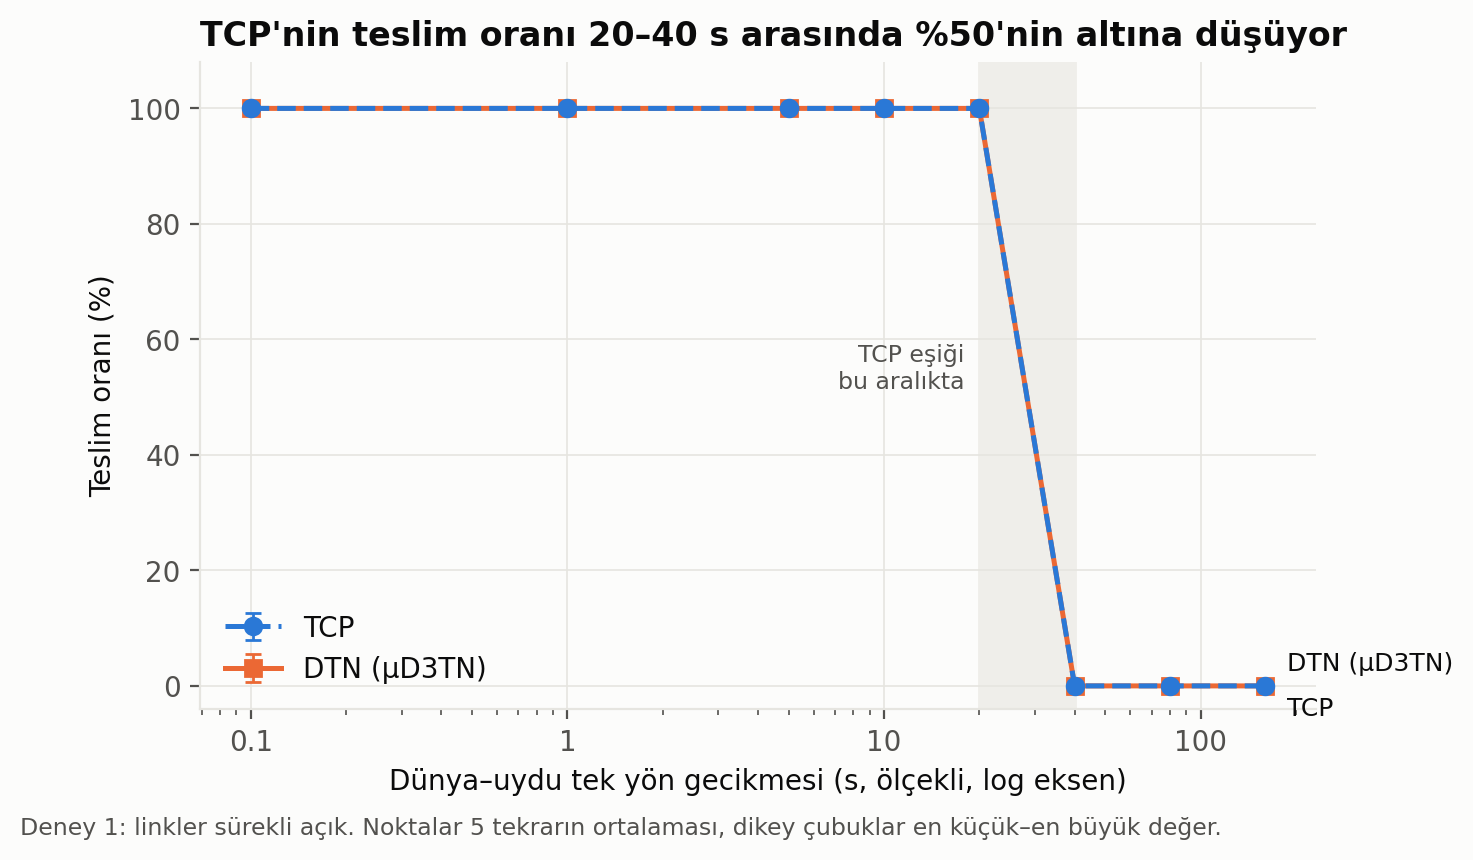
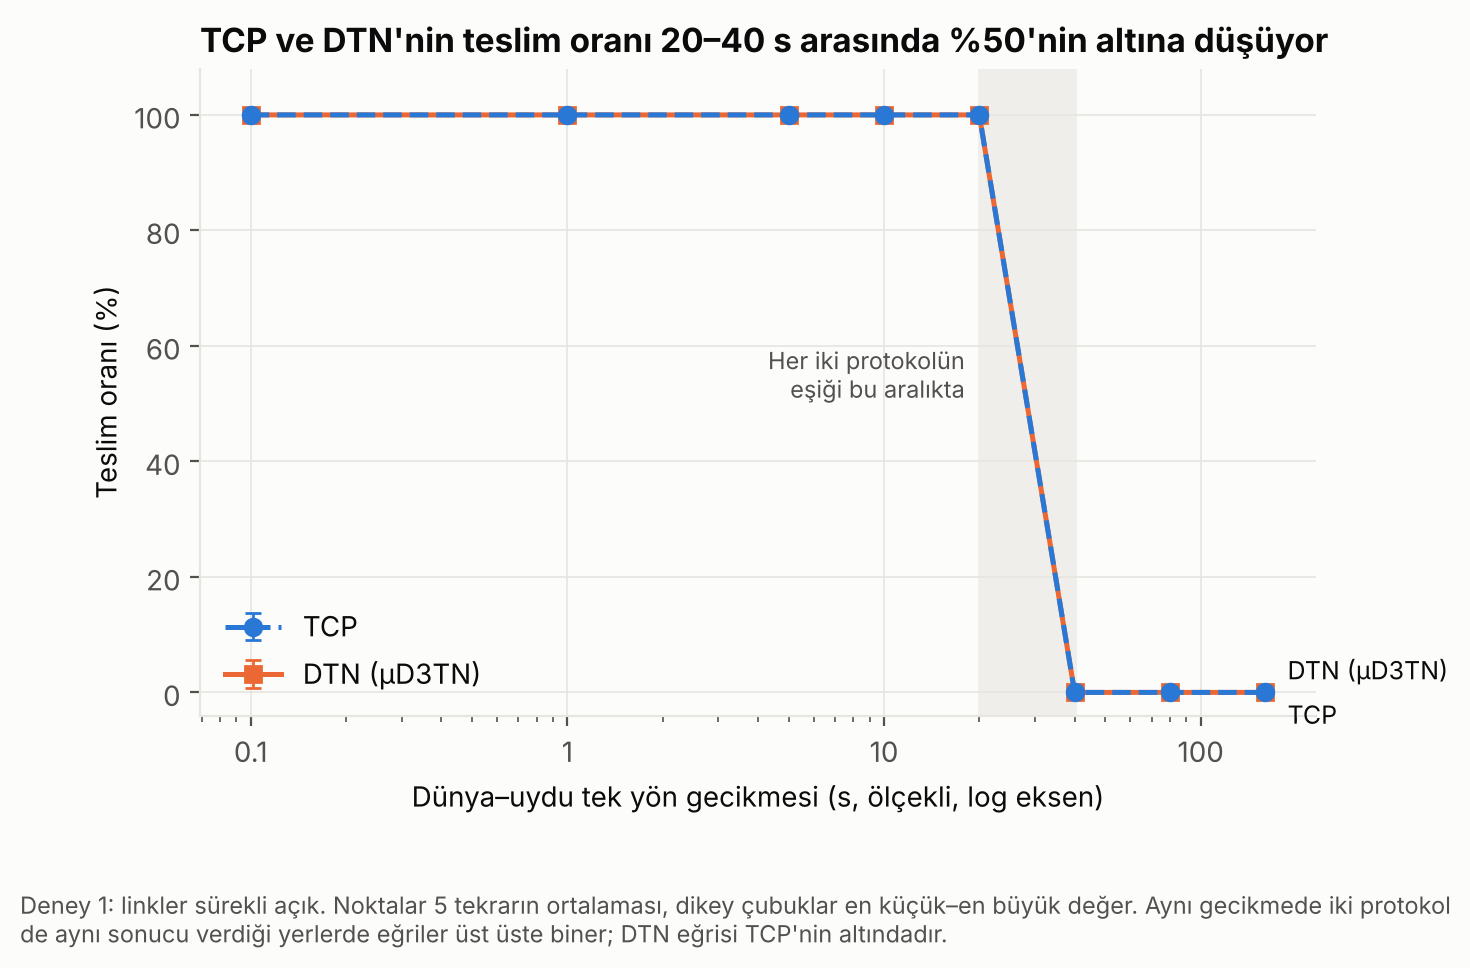
Grafiklerde teslim %0 noktalarini ve tekrar dagilimini duzelt, README'yi guncelle

diff --git a/analiz/grafikler.py b/analiz/grafikler.py
@@ -78,15 +78,20 @@ def _seri(g: pd.DataFrame, mod: str, x: str) -> pd.DataFrame:
     return g[g["mod"] == mod].sort_values(x)
 
 
-def tcp_esigi(g1_gruplari: pd.DataFrame, oran: float = 0.5):
-    """TCP'nin ortalama teslim oranının ilk kez `oran`ın altına düştüğü aralık."""
-    t = _seri(g1_gruplari, "tcp", "g1_s").dropna(subset=["teslim_orani_ort"])
+def esik_bul(g1_gruplari: pd.DataFrame, mod: str, oran: float = 0.5):
+    """`mod`un ortalama teslim oranının ilk kez `oran`ın altına düştüğü aralık."""
+    t = _seri(g1_gruplari, mod, "g1_s").dropna(subset=["teslim_orani_ort"])
     onceki = None
     for _, satir in t.iterrows():
         if satir["teslim_orani_ort"] < oran:
             return (onceki, float(satir["g1_s"]))
         onceki = float(satir["g1_s"])
     return None
+
+
+def tcp_esigi(g1_gruplari: pd.DataFrame, oran: float = 0.5):
+    """TCP'nin ortalama teslim oranının ilk kez `oran`ın altına düştüğü aralık."""
+    return esik_bul(g1_gruplari, "tcp", oran)
 
 
 def _dogrudan_etiket(ax, xs, ys, mod: str, dy: float = 0.0) -> None:
@@ -101,11 +106,14 @@ def deney1_teslim(g: pd.DataFrame, yol: Path, uyari: Optional[str]) -> Optional[
         return None
     fig, ax = plt.subplots(figsize=(7.2, 4.2))
     _uyari_ekle(fig, uyari)
-    esik = tcp_esigi(g)
+    esik = esik_bul(g, "tcp")
+    dtn_esik = esik_bul(g, "dtn")
+    ayni_esik = esik is not None and dtn_esik == esik
     if esik and esik[0] is not None:
         ax.axvspan(esik[0], esik[1], color=BANT, zorder=0)
-        ax.text(esik[0] * 0.9, 55, "TCP eşiği\nbu aralıkta", ha="right",
-                va="center", fontsize=8.5, color=IKINCIL)
+        ax.text(esik[0] * 0.9, 55, ("Her iki protokolün\neşiği bu aralıkta"
+                                    if ayni_esik else "TCP eşiği\nbu aralıkta"),
+                ha="right", va="center", fontsize=8.5, color=IKINCIL)
     for mod in MODLAR:
         s = _seri(g, mod, "g1_s").dropna(subset=["teslim_orani_ort"])
         if s.empty:
@@ -124,16 +132,23 @@ def deney1_teslim(g: pd.DataFrame, yol: Path, uyari: Optional[str]) -> Optional[
     ax.set_ylim(-4, 108)
     ax.set_xlabel("Dünya–uydu tek yön gecikmesi (s, ölçekli, log eksen)")
     ax.set_ylabel("Teslim oranı (%)")
+    kim = "TCP ve DTN'nin teslim oranı" if ayni_esik else "TCP'nin teslim oranı"
     if esik and esik[0] is not None:
-        baslik = f"TCP'nin teslim oranı {esik[0]:g}–{esik[1]:g} s arasında %50'nin altına düşüyor"
+        baslik = f"{kim} {esik[0]:g}–{esik[1]:g} s arasında %50'nin altına düşüyor"
     elif esik:
-        baslik = "TCP en düşük gecikmede bile %50'nin altında teslim ediyor"
+        baslik = f"{kim} en düşük gecikmede bile %50'nin altında"
     else:
         baslik = "TCP denenen tüm gecikmelerde %50'nin üzerinde teslim ediyor"
     ax.set_title(baslik)
     n = int(g["n"].max())
-    fig.text(0.0, -0.04, f"Deney 1: linkler sürekli açık. Noktalar {n} tekrarın ortalaması, "
-             "dikey çubuklar en küçük–en büyük değer.", fontsize=8.5, color=IKINCIL)
+    # İki protokol aynı değerleri verdiğinde eğriler tam üst üste biner ve alttaki
+    # görünmez; bunu altyazıda söylemezsek "DTN nerede?" diye okunur.
+    ortusme = (" Aynı gecikmede iki protokol de aynı sonucu verdiği yerlerde eğriler "
+               "üst üste biner; DTN eğrisi TCP'nin altındadır." if ayni_esik else "")
+    fig.text(0.0, -0.16 if ortusme else -0.04,
+             f"Deney 1: linkler sürekli açık. Noktalar {n} tekrarın ortalaması, "
+             f"dikey çubuklar en küçük–en büyük değer.{ortusme}",
+             fontsize=8.5, color=IKINCIL, wrap=True)
     ax.legend(loc="lower left")
     return _kaydet(fig, yol)
 
@@ -191,15 +206,24 @@ def deney2(g: pd.DataFrame, yol: Path, uyari: Optional[str]) -> Optional[Path]:
         konum = [pencereler.index(float(p)) + (i - 0.5) * (genislik + 0.02)
                  for p in s["pencere_s"]]
         degerler = 100 * s["teslim_orani_ort"].astype(float)
+        enaz = 100 * s["teslim_orani_min"].astype(float).to_numpy()
+        encok = 100 * s["teslim_orani_max"].astype(float).to_numpy()
         cubuklar = sol.bar(konum, degerler, width=genislik, color=st["renk"],
                            label=st["ad"], hatch=None if mod == "dtn" else "///",
                            edgecolor=YUZEY, linewidth=0.8, zorder=3)
-        for c, v in zip(cubuklar, degerler):
-            sol.text(c.get_x() + c.get_width() / 2, v + 2, f"%{v:.0f}", ha="center",
-                     va="bottom", fontsize=8.5, color=METIN)
+        # Tekrarlar dağıldığında (ör. 10 s pencerede 3x %100, 2x %38) yalnızca ortalama
+        # gösterilirse sonuç tek tepeliymiş gibi okunur. En küçük-en büyük çubuğu ve
+        # etiketteki aralık bunu görünür kılar.
+        y = degerler.to_numpy()
+        sol.errorbar(konum, y, yerr=[y - enaz, encok - y], fmt="none", ecolor=METIN,
+                     capsize=3, elinewidth=1, zorder=4)
+        for c, v, a, b in zip(cubuklar, y, enaz, encok):
+            etiket = f"%{v:.0f}" if a == b else f"%{v:.0f}\n(%{a:.0f}–%{b:.0f})"
+            sol.text(c.get_x() + c.get_width() / 2, max(v, b) + 3, etiket, ha="center",
+                     va="bottom", fontsize=8.5, color=METIN, linespacing=1.3)
     sol.set_xticks(range(len(pencereler)))
     sol.set_xticklabels([f"{p:g} s" for p in pencereler])
-    sol.set_ylim(0, 135)
+    sol.set_ylim(0, 158)  # iki satırlık aralık etiketi ile açıklama kutusu çakışmasın
     sol.set_yticks(range(0, 101, 20))
     sol.set_xlabel("Pencere süresi")
     sol.set_ylabel("Teslim oranı (%)")
@@ -228,13 +252,20 @@ def deney2(g: pd.DataFrame, yol: Path, uyari: Optional[str]) -> Optional[Path]:
     tcp = _seri(g, "tcp", "pencere_s")
     dtn = _seri(g, "dtn", "pencere_s")
     if not tcp.empty and not dtn.empty:
-        fig.suptitle(f"Uçtan uca yol hiç açılmadığında TCP en fazla "
-                     f"%{100 * tcp['teslim_orani_ort'].max():.0f}, DTN en az "
-                     f"%{100 * dtn['teslim_orani_ort'].min():.0f} teslim ediyor",
+        # Başlık koşu başına en küçük-en büyük değerden kurulur: ortalamayla kurulursa
+        # dağılan tekrarlar (10 s pencere) gizlenir.
+        t_encok = 100 * float(tcp["teslim_orani_max"].max())
+        d_enaz = 100 * float(dtn["teslim_orani_min"].min())
+        d_encok = 100 * float(dtn["teslim_orani_max"].max())
+        tcp_kismi = ("TCP hiçbir mesajı teslim edemiyor" if t_encok == 0
+                     else f"TCP en fazla %{t_encok:.0f} teslim ediyor")
+        dtn_kismi = (f"DTN %{d_enaz:.0f}" if d_enaz == d_encok
+                     else f"DTN koşu başına %{d_enaz:.0f}–%{d_encok:.0f}")
+        fig.suptitle(f"Uçtan uca yol hiç açılmadığında {tcp_kismi}, {dtn_kismi} teslim ediyor",
                      x=0.01, ha="left", fontsize=12, weight="bold", y=1.03)
     fig.text(0.01, -0.05, "Deney 2: Dünya–uydu ve uydu–araç pencereleri hiç örtüşmüyor. "
-             "Değerler tekrarların ortalaması (teslim) ve medyanı (gecikme).",
-             fontsize=8.5, color=IKINCIL)
+             "Çubuklar tekrarların ortalaması, dikey çizgiler en küçük–en büyük koşu; "
+             "gecikme tekrarların medyanı.", fontsize=8.5, color=IKINCIL)
     fig.tight_layout()
     return _kaydet(fig, yol)
 
@@ -242,8 +273,15 @@ def deney2(g: pd.DataFrame, yol: Path, uyari: Optional[str]) -> Optional[Path]:
 def ek_yuk(g: pd.DataFrame, yol: Path, uyari: Optional[str]) -> Optional[Path]:
     g = g.dropna(subset=["ek_yuk_orani_ort"])
     g = g[g["deney"] == "deney1"]
+    # Hiçbir mesajın teslim edilemediği noktalarda ek yük oranı anlamsızdır: payda
+    # gönderilen asıl veridir (DTN'de yerel düğümün kabul ettiği bundle'lar), ama hatta
+    # neredeyse hiç bayt geçmemiştir. Oran 1'in çok altına düşer ve çizilirse "yüksek
+    # gecikmede ek yük azalıyor" diye okunur. Bu noktalar çizilmez, altyazıda belirtilir.
+    teslimsiz = g[g["teslim_orani_ort"].fillna(0) <= 0] if "teslim_orani_ort" in g else g.iloc[:0]
+    g = g.drop(index=teslimsiz.index)
     if g.empty:
         return None
+    atlanan = sorted({float(v) for v in teslimsiz["g1_s"].dropna()})
     fig, ax = plt.subplots(figsize=(7.2, 4.2))
     _uyari_ekle(fig, uyari)
     for mod in MODLAR:
@@ -269,9 +307,16 @@ def ek_yuk(g: pd.DataFrame, yol: Path, uyari: Optional[str]) -> Optional[Path]:
     ax.set_xlabel("Dünya–uydu tek yön gecikmesi (s, ölçekli, log eksen)")
     ax.set_ylabel("Ek yük oranı (hat baytı / asıl veri baytı)")
     ax.set_title("Protokol ek yükü")
-    fig.text(0.0, -0.04, "Deney 1. Hat baytı aktarıcıda tcpdump ile, iki linkteki tüm "
-             "çerçeveler. Hiç veri gönderilemeyen koşularda oran tanımsızdır ve gösterilmez.",
-             fontsize=8.5, color=IKINCIL)
+    if atlanan:
+        liste = ", ".join(f"{v:g}" for v in atlanan)
+        not_metni = (f" Teslim oranı %0 olan noktalar (g1 = {liste} s) gösterilmez: orada "
+                     "oran düşüktür çünkü hatta neredeyse hiç bayt geçmemiştir, ek yük "
+                     "azaldığı için değil.")
+    else:
+        not_metni = " Hiç veri gönderilemeyen koşularda oran tanımsızdır ve gösterilmez."
+    fig.text(0.0, -0.16 if atlanan else -0.04,
+             "Deney 1. Hat baytı aktarıcıda tcpdump ile, iki linkteki tüm "
+             f"çerçeveler.{not_metni}", fontsize=8.5, color=IKINCIL, wrap=True)
     ax.legend(loc="upper left")
     return _kaydet(fig, yol)
 

diff --git a/README.md b/README.md
@@ -14,6 +14,19 @@ dakika yerine saniyeler).
 | Deney 1 | TCP hangi gecikmede çalışamaz hale geliyor? | Linkler hep açık, Dünya–uydu gecikmesi 0,1 → 160 s |
 | Deney 2 | Uçtan uca yol hiç açık değilken ne oluyor? | Gecikme 1 s, iki linkin pencereleri hiç örtüşmüyor |
 
+## Sonuçlar
+
+Her iki deneyin tam matrisi koşuldu: **110 koşu** (Deney 1: 80, Deney 2: 30), 25–26
+Kasım 2026, tek makinede ve tek kod sürümünde (`git: f59902a`).
+
+- **Özet tablolar ve grafikler:** [`docs/sonuclar/`](docs/sonuclar/)
+- **Bulgular ve düzenekte bulunan sorunlar:** [`docs/bulgular.md`](docs/bulgular.md)
+
+Kısaca: uçtan uca yol sürekli açıkken (Deney 1) DTN'in bir üstünlüğü yok, her gecikmede
+TCP'den yavaş; g1 ≥ 40 s'de ikisi de hiçbir mesajı teslim edemiyor. DTN'in farkı yalnızca
+yol hiç açılmadığında (Deney 2) ortaya çıkıyor: TCP %0, DTN %38–%100. Ayrıntılar ve bu
+sonuçların nedenleri `docs/bulgular.md`'de.
+
 ## Klasör yapısı
 
 | Klasör | İçerik | Sorumlu |
@@ -22,9 +35,12 @@ dakika yerine saniyeler).
 | `deney/` | Deney koşturucu (`run_experiment.py`), ortam dosyaları, deney matrisleri, takvim üretici | Nesibe |
 | `analiz/` | Metrikler, pcap bayt sayımı, grafikler, Colab defteri, sentetik test verisi | Nesibe |
 | `testler/` | Birim ve uçtan uca testler, testler için µD3TN AAP 2.0 taklidi | Nesibe |
-| `docker-compose.yml`, ağ ve pencere betikleri | Topoloji, netem, `contact_controller.py` | Elif |
-| µD3TN Dockerfile ve yapılandırma | Düğümler, kontaklar, takvim yükleyici | Azra |
-| `docs/` | Ortam ayarları, GitHub kurulumu | Ortak |
+| `ag/`, `docker-compose.yml` | Topoloji, netem, `contact_controller.py`, `arayuz_dogrula.py` | Elif |
+| `dtn_yapilandirma/` | µD3TN imajı (`Dockerfile`) ve takvim yükleyici (`takvim_yukle.py`) | Azra |
+| `docs/` | Ortam ayarları, bulgular, sonuç özetleri | Ortak |
+
+`docker-compose.a1.yml` yalnızca iki düğümlü ilk DTN denemesi (A1) içindir; deneylerde
+kullanılmaz.
 
 ## Hızlı başlangıç (Windows, Mac veya Linux, Docker gerekmez)
 
@@ -141,13 +157,18 @@ en küçük ve en büyük; gecikme için koşu medyanlarının medyanı.
 
 ## Sınırlılıklar ve doğrulanmamış noktalar
 
-- Otomatik yazılım testleri yerelde ve µD3TN AAP2 taklidiyle çalışır. Gerçek üç düğümlü
-  µD3TN ve `netem` ortamında ilk smoke koşuları tamamlandı; tam deney matrisleri henüz
-  tamamlanmadı. Tek koşuluk sonuçlar nihai ölçüm olarak değerlendirilmemelidir.
-- Deney 2'nin 10 s pencere koşulunda bildirilen %38 DTN teslim oranının nedeni
-  incelenmektedir. Tam Deney 2 matrisi bu inceleme tamamlanana kadar bekletilmelidir.
-- µD3TN'in düğümler arası taşıma katmanları TCP tabanlıdır; çok yüksek gecikmede DTN
-  bağlantısı da TCP zaman aşımlarına takılabilir (yol haritası bölüm 2).
-- `testler/sahte_ud3tn.py` bir DTN uygulaması değildir, deneylerde kullanılmaz.
-- `netem`'in kapalı linkte düşürdüğü paketler `tcpdump` yakalamasında görünmeyebilir;
-  ek yük ölçümünün bu yönü Docker ortamında doğrulanmalı.
+- Tüm sonuçlar tek bir makinede (macOS + Colima) alındı. Başka bir donanımda, özellikle
+  zamanlamaya duyarlı Deney 2'de, sayılar değişebilir.
+- µD3TN'in düğümler arası taşıma katmanları TCP tabanlıdır (burada MTCP). Yüksek
+  gecikmede DTN bağlantısı da TCP zaman aşımına takılır: g1 ≥ 40 s'de teslim %0.
+  Bu µD3TN'in bu yapılandırmasının sınırıdır, DTN mimarisinin değil
+  (`docs/bulgular.md`, Bulgu 3).
+- MTCP'de bundle düzeyinde onay yoktur; kısa pencerelerde bundle kaybı görülür
+  (`docs/bulgular.md`, Bulgu 1). Onaylı TCPCLv3 katmanı denenmedi.
+- Ek yük oranı yalnızca teslimin gerçekleştiği noktalarda anlamlıdır. Teslim %0 olan
+  noktalarda oran 1'in altına düşer; bu ek yükün azaldığı anlamına gelmez, hatta
+  neredeyse hiç bayt geçmediği anlamına gelir. Grafik bu noktaları çizmez.
+- `netem`'in kapalı linkte düşürdüğü paketler aktarıcıdaki `tcpdump` yakalamasında
+  görünmeyebilir; Deney 2'nin ek yük sayıları bu etkiyi taşıyabilir.
+- `testler/sahte_ud3tn.py` bir DTN uygulaması değildir, deneylerde kullanılmaz;
+  otomatik testler yalnızca yazılım akışını doğrular, ölçüm üretmez.
